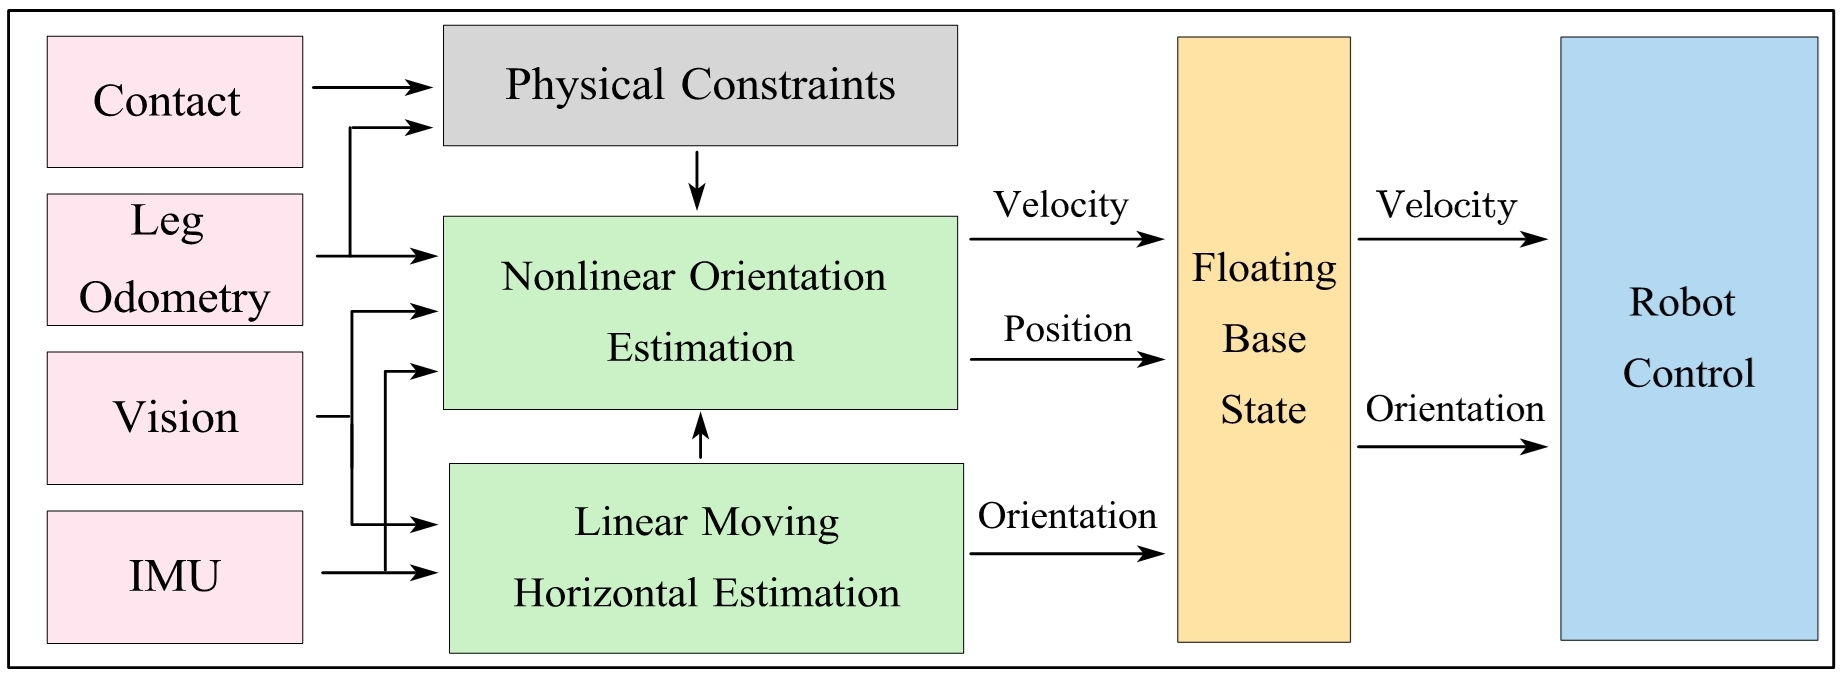
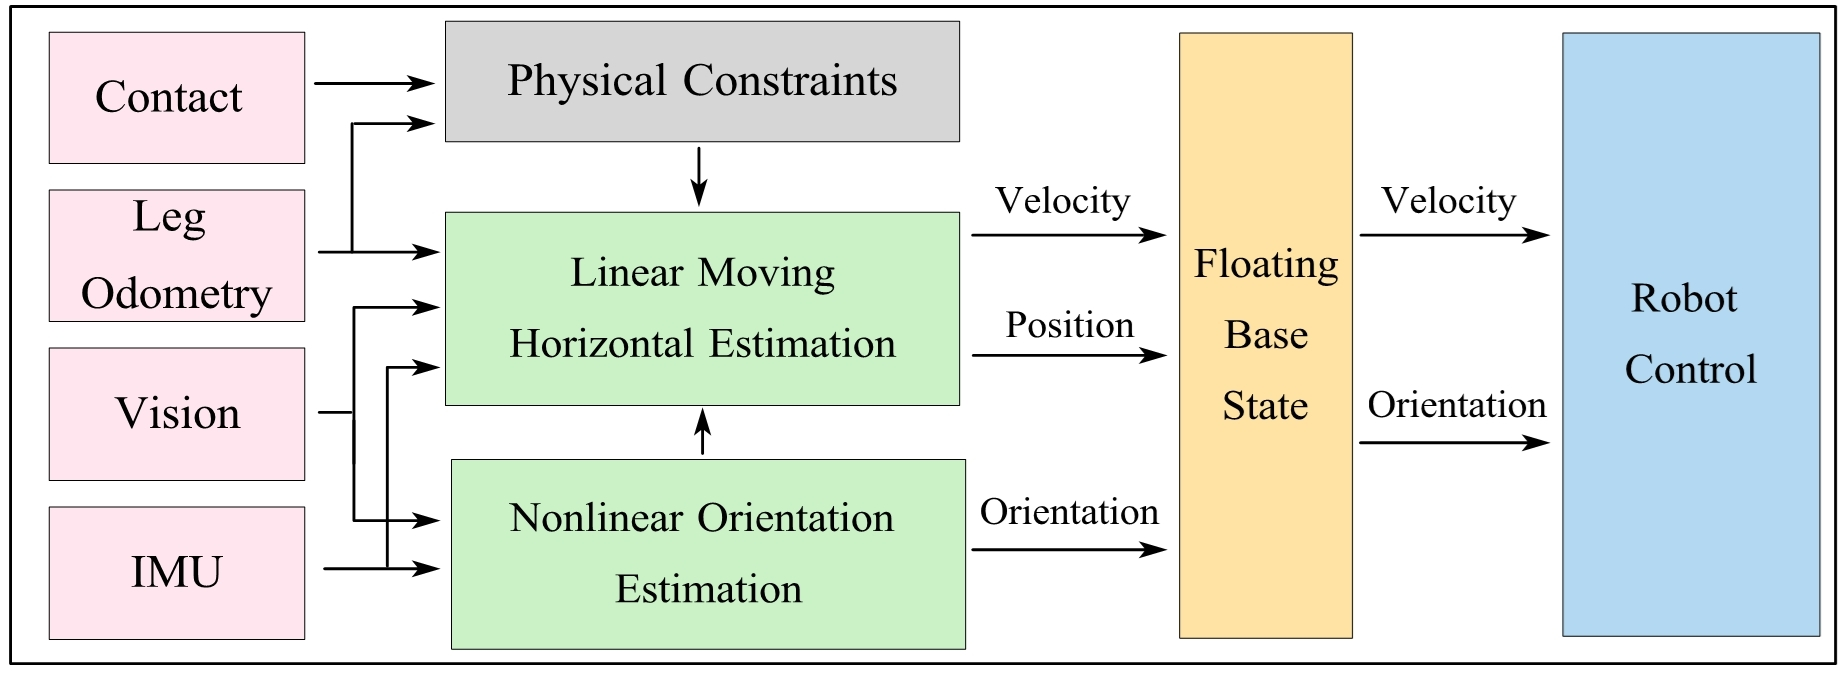
readme

diff --git a/README.md b/README.md
@@ -5,7 +5,7 @@ Decentralized_EKF_MHE decentralizes the nonlinear estimation of the floating bas
 
 For more details, please refer to the paper. [[arxiv](http://www.arxiv.org/abs/2405.20567)] [[youtube](https://www.youtube.com/watch?v=k3bBO87UIlk)]
 
-![Alt text](Block_Diagram.jpg)
+![Alt text](Block_Diagram-1.jpg)
 
 ## Prerequisites
 
